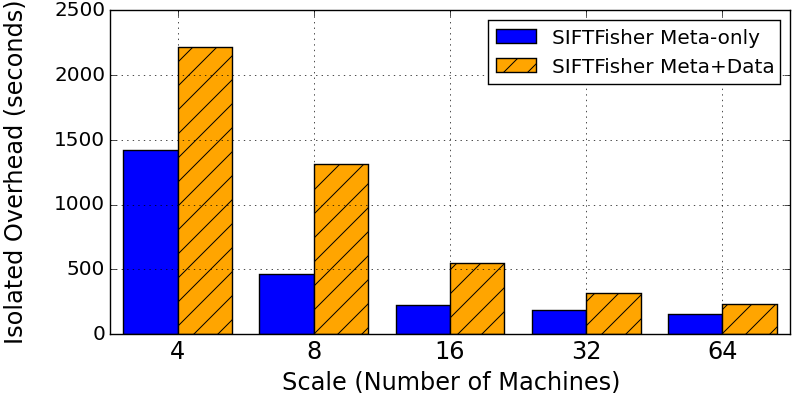
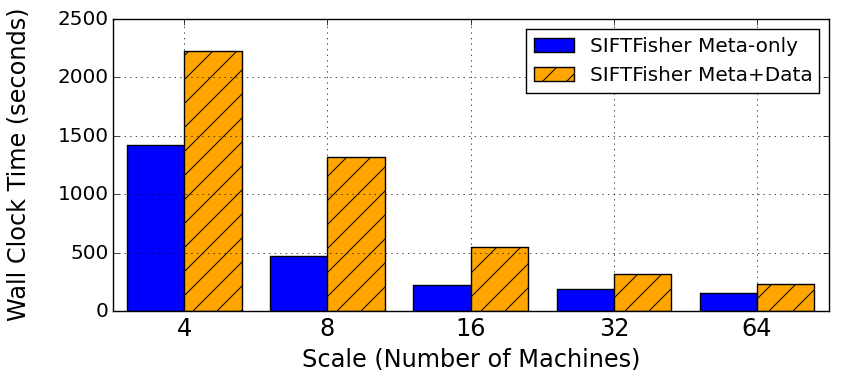
update figures

diff --git a/Lineage.tex b/Lineage.tex
@@ -878,8 +878,7 @@ The query of an input element (0,0) in the R-tree returns a tuple of the boundin
 The query returns the output elements expanded from Rect\_0 only if the input element is within circle\_0.
 
 The time complexity of building a R-tree is $log(N)$.
-Practically the time complexity of query a R-tree is $log(N)$ in our use cases, though
-the worst case complexity is $O(N)$.
+The worst case time complexity of query a R-tree is $O(N)$.
 And the space complexity for {\bf RTree} index is $log(N)$.
 
 \subsubsection{KMeans Index}
@@ -895,7 +894,7 @@ A worst case query needs to traverses all $k$ non-leaf nodes and all $\frac{N}{k
 $k+\frac{N}{k}$ has its minimum when $k=\sqrt{N}$. 
 
 The time complexity of building the {\bf KMeans} index is $O(N^{1.5})$.
-The average query time complexity is $O(logN)$.
+The worst case query time complexity is $O(\sqrt{N})$.
 The space complexity of {\bf KMeans} is $O(\sqrt{N})$.
 
 \subsubsection{Index Strategy Asymptotical Comparison}
@@ -908,11 +907,11 @@ the query time complexity, and the index space complexity.
     \begin{scriptsize}
     \begin{tabular}{ | p{1.75cm} | p{1.75cm} | p{1.75cm} | p{1.75cm} |}
     \hline
-    Strategy & Building & Query & Space \\ \hline \hline
+    Strategy & Building & Worst Query & Space \\ \hline \hline
     NoIndex & 0 & $O(N)$ & 0 \\ \hline
     Direct & $O(N^2)$ & $O(1)$ & $O(N^2)$ \\ \hline
-    RTree & $O(N)$ & $O(logN)$ & $O(logN)$ \\ \hline
-    KMeans & $O(N^{1.5})$ & $O(logN)$ & $O(\sqrt{N})$ \\ \hline
+    RTree & $O(N)$ & $O(\sqrt{N})$ & $O(logN)$ \\ \hline
+    KMeans & $O(N^{1.5})$ & $O(N)$ & $O(\sqrt{N})$ \\ \hline
     \end{tabular}
     \end{scriptsize}
     \label{tb:index-comparison}
@@ -946,21 +945,55 @@ A detailed performance study is present in \S\ref{sec:Perf-Index}.
 In this section, we evaluate a number of aspects of SystemX's performance.
 We demonstrate a set of built-in indexing strategy for geometry mapping, and profile the tradeoff
 between index building time, query performance, memory usage and storage consumption.
-The end-to-end performance and memory/disk usage for three real ML pipelines are presented.
-Then we show the profiling of SystemX's scalability with three real ML pipelines on varying cluster sizes.
-Last, we measure the performance of the three use cases presented in \S\ref{sec:Back-cases} with 
-fine-grained lineage and its according cost.
+Then we present the scalability of SystemX's lineage capturing with two real ML pipelines on varying cluster sizes.
+We also measure the performance of the three use cases presented in \S\ref{sec:Back-cases}.
 
 Unless otherwise specified, all experiments are run on Amazon EC2 using r3.8xlarge instances.
 Each machine has 16 physical cores, 244 GB memory, and two 320GB SSD. 
 SystemX is integrated with KeystoneML 0.3 which in turn runs over Spark 1.3.1, HDFS from the
 CDH4 distribution of Hadoop. 
 
+The two pipelines we are using are SIFTFisher and SourceExtractor. 
+The datasets VOC2007~\cite{pascal-voc-2007} and a subset of Sloan Digital Sky Survey~\cite{york00} (SDSS) Data Release 7, respectively.
+Table~\ref{tb:datasets} summarizes the size and number of files of the datasets.
+
+\begin{table}[t]
+\begin{center}
+    \caption{Data Size of SIFTFisher and SourceExtractor with the Meta-only and Meta+Data settings}
+    \begin{scriptsize}
+    \begin{tabular}{ | p{1.8cm} | p{1.8cm} | p{1.8cm} | }
+    \hline
+    Dataset & VOC & SDSS DR7 \\ \hline \hline
+    Size & 828~MB & 65~GB \\ \hline
+    File Count & 10,000 & 11,150 \\ \hline
+    \end{tabular}
+    \end{scriptsize}
+    \label{tb:datasets}
+\end{center}   
+\end{table}
+
 \subsection{Geometry Mapping Index}
 \label{sec:Perf-Index}
 With this experiment we seek to profile the characteristics of the indexing strategies for geometry lineage discussed in \S\ref{sec:GeometryIndex}.
 We use a workload with 5,000 pairs of input and output matrix, with each pair producing 60,000 geometry mappings that are uniformly distributed
-in 2D space. The total number of mappings has 300 million geometries. The experiment was executed on a 16 machine cluster.
+in 2D space. The total number of mappings has 300 million geometries. 
+This test workload is derived from the SIFTExtractor transformer in the SIFTFisher pipeline.
+The experiment was executed on a 16 machine cluster.
+
+Figure~\ref{fig:sift-query} presents the query performance with these indexing strategies.
+For each strategy, we run queries with {1, 100, 1000, 10000} batch size.
+NoIndex strategy perform worst among the four strategies, the query latency quickly grow over 10,000~ms with batch size of 100.
+The other three strategies show a similar scalability, while KMeans-1 runs 17.9\% and 25.1\% faster than RTree with batch size of 1000 and 10000, respectively.
+KMeans-5 runs  31.1\% and 35.2\% faster with batch size of 1000 and 10000, respectively.
+
+\begin{figure}[t]
+\begin{center}
+    \includegraphics[width=85mm]{pictures/SIFTQuery-Time}
+\caption {Query performance profile of the geometry mapping with four indexing strategies
+    \label{fig:sift-query}
+}
+\end{center}
+\end{figure}
 
 Figure~\ref{fig:sift-time} presents the end-to-end performance of this workload with a detailed runtime decomposition. For each data point, 
 we run it three times and present the average. 
@@ -974,26 +1007,29 @@ we run it three times and present the average.
 \end{center}
 \end{figure}
 
-Without lineage tracking, the workload takes 61.3~seconds to finish without lineage tracking, shown as the baseline.
-Tracking metadata mapping (geometry mapping) incurs a 89.8~seconds overhead in average. 
-Building the index for geometry mapping takes 33.9, 69.9, and 349.0~seconds for RTree, KMeans-1, and KMeans-5.
+Capturing 300 million geometry mappings takes 89.8~seconds overhead in average. 
+Building the index for these mappings takes 33.9, 69.9, and 349.0~seconds for RTree, KMeans-1, and KMeans-5.
 The Direct strategy crashes due to insufficient memory.
 
-Figure~\ref{fig:sift-query} presents the query performance with these indexing strategies.
-For each strategy, we run queries with {1, 100, 1000, 10000} batch size.
-NoIndex strategy perform worst among the four strategies, the query latency quickly grow over 10,000~ms with batch size of 100.
-The other three strategies show a similar scalability, while KMeans-1 runs 17.9\% and 25.1\% faster than RTree with batch size of 1000 and 10000, respectively.
-KMeans-5 runs  31.1\% and 35.2\% faster with batch size of 1000 and 10000, respectively.
+Table~\ref{tb:sift-index-resource} presents the additional memory usage, storage space for mappings and
+index separately.
 
-
-\begin{figure}[t]
+\begin{table}[t]
 \begin{center}
-    \includegraphics[width=85mm]{pictures/SIFTQuery-Time}
-\caption {Query performance profile of the geometry mapping with four indexing strategies
-    \label{fig:sift-query}
-}
-\end{center}
-\end{figure}
+    \caption{Summary of Additional Memory Usage, Mapping Storage Space, and Index Storage Space for the Four Indexing Strate}
+    \begin{scriptsize}
+    \begin{tabular}{ | c | c | c | c |}
+    \hline
+    Index & Additional  Mem & Mapping Space & Index Space \\ \hline \hline
+    NoIndex & 71.4\% & 30.8~GB & 0 \\ \hline
+    RTree & 85.7\% & 30.8~GB & 24.6~GB\\ \hline
+    KMeans-1 & 85.7\% & 30.8~GB & 3.5~BG\\ \hline
+    KMeans-5 & 114.3\% & 30.8~GB & 3.5~GB\\ \hline
+    \end{tabular}
+    \end{scriptsize}
+    \label{tb:sift-index-resource}
+\end{center}   
+\end{table}
 
 The storage consumption of the four indexing strategies is 30.8GB, 55.4GB, 34.3GB, and 34.3GB 
 for NoIndex, RTree, KMeans-1, KMeans-5, respectively. 
@@ -1009,92 +1045,75 @@ Since storage is not the major bottleneck given the machine capability, SystemX 
 as default, leaving the RTree strategies as users' options.
 
 
-
-%\subsection{End-to-end Pipeline Performance}
-%We use three ML pipelines to measure the end-to-end performance and its penalty with lineage capturing
-%along with resource consumption of memory and storage on a 16 machine cluster.
-%For each pipeline, we collect both the metadata mapping, the input dataset of the first transformer,  and the output dataset of all transformers.
-%Table~\ref{tb:apps-overhead} presents the measure numbers, for each data point in the table, it is an
-%average of three executions. 
-
-%The measurement shows a performance penalty range of 25.6\%-62.2\%, this performance penalty is comparable to that
-%of previous works of RAMP (16$\sim$76\%), Newt (20$\sim$50\%), and SubZero(20\%$\sim$150\%).
-%The memory usage overhead comparing to the baseline case is 200\% for MNIST pipeline, however it is using only
-%193~GB out of 3.9~TB memory space. 
-%For more memory-intensive pipelines of SIFTFisher (1.3~TB) and SourceExtractor (1.6~TB), the additional usage is 38.5\% and 43.7\%, respectively.
-
-%\begin{table}[t]
-%\begin{center}
-%    \caption{Overhead Profile of SystemX on the SIFTFisher, SourceExtractor, and MNIST Pipelines}
-%    \begin{scriptsize}
-%    \begin{tabular}{ | p{1.8cm} | p{1.8cm} | p{1.8cm} | p{1.5cm} | }
-%    \hline
-%    Pipeline & SIFTFisher & SourceExtractor & MNIST  \\ \hline \hline
-%    Baseline & 780.8s & 279.7s & 56.4s \\ \hline
-%    Perf Penalty & 38.4\% & 25.6\% & 62.2\%   \\ \hline
-%    Memory & 38.5\% & 43.7\% & 200\%\\ \hline
-%    Mapping Size & 109.9~GB & 204.4~MB & 78.9~MB \\ \hline
-%    In\&Out dataset Size & 615.7~GB & 506.9~GB & 11.8~GB\\ \hline
-%    \end{tabular}
-%    \end{scriptsize}
-%    \label{tb:apps-overhead}
-%\end{center}   
-%\end{table}
-
-\subsection{Scalability}
-We evaluate the wall clock time overhead introduced by the lineage capturing systems with 
-the SIFTFisher and SourceExtractor pipelines. 
-The goal is to evaluate if this overhead is scalable with larger cluster size in a strong scaling manner.
+\subsection{Lineage Capturing Scalability}
+We evaluate lineage capturing performance with the SIFTFisher and SourceExtractor pipelines. 
+The goal is to evaluate if lineage capturing is scalable with larger cluster size in a strong scaling manner.
 For each pipeline, we measure the wall clock time of lineage capturing with two settings.
-With the first setting, SystemX only captures the metadata mapping, since this is the minimal lineage information 
+With the first setting (meta-only), SystemX only captures the metadata mapping, since this is the minimal lineage information 
 to preserve the pipeline lineage integrity.
-With the second setting, SystemX captures both the metadata mapping and the output dataset of each transformer.
+With the second setting (meta+data), SystemX captures both the metadata mapping and the output dataset of each transformer.
 With the lineage information captured in this way, queries on the output dataset does not require any rerunning of data transformations.
-And this is considered the maximal lineage information of a pipeline. 
+And this is considered as the maximal lineage information of a pipeline. 
+Table~\ref{tb:apps-stats} presents the the dataset size collected with both settings for both pipelines.
 
-Figure~\ref{fig:VOC-overhead} shows the isolated wall clock time overhead for the meta-only and meta+data
+\begin{table}[t]
+\begin{center}
+    \caption{Data Size of SIFTFisher and SourceExtractor with the Meta-only and Meta+Data settings}
+    \begin{scriptsize}
+    \begin{tabular}{ | c | c | c| }
+    \hline
+    Pipeline & SIFTFisher & SourceExtractor \\ \hline \hline
+    Meta-only & 109.9~GB & 204.4~MB \\ \hline
+    Meta+Data & 615.7~GB & 506.9~GB \\ \hline
+    \end{tabular}
+    \end{scriptsize}
+    \label{tb:apps-stats}
+\end{center}   
+\end{table}
+
+Figure~\ref{fig:VOC-overhead} shows the isolated wall clock time of lineage capturing performance for the meta-only and meta+data
 settings. From small scale to large scale, the meta-only setting scales up to 16 machines then flattens. 
 On the other hand, the meta+data setting shows a better scalability since this is a relatively more
 data-intensive procedure compared to the meta-only setting. 
-By examining the pipeline scalability, we confirm that the the scalability of the meta-only setting is bounded
+By examining the pipeline measurements, we confirm that the the scalability of the meta-only setting is bounded
 by the pipeline performance.
+From 4 to 8 machines, the meta-only setting shows a super linear speedup, this is because the pipeline is memory-bounded on 4 machines
+and using 8 machines removes this bottleneck.
+
 \begin{figure}[t]
 \begin{center}
     \includegraphics[width=85mm]{pictures/Overhead-Time-VOC}
-\caption {Isolated Lineage Capturing Wall Clock Time Overhead of the SIFTFisher Pipeline
+\caption {Isolated Lineage Capturing Wall Clock Time of the SIFTFisher Pipeline
     \label{fig:VOC-overhead}
 }
 \end{center}
 \end{figure}
 
-Figure~\ref{fig:SE-overhead} shows the isolated wall clock time overhead for the meta-only and meta+data settings.
+Figure~\ref{fig:SE-overhead} shows the isolated wall clock time lineage capturing for the meta-only and meta+data settings.
 By profiling the SourceExtractor performance, we observe that this pipeline's runtime only improves by 5.5\% from 8 machines
-to 16 machines. Then the performance starts to slow down with more machines.
+to 16 machines. Then the performance starts to slow down with more machines due to the small input file size and short task runtime.
 Given the poor scalability of the SourceExtractor pipeline, the meta-only setting performance is bounded by the pipeline performance.
 While the Meta+Data setting scales better due to its nature of data intensiveness.
 \begin{figure}[t]
 \begin{center}
     \includegraphics[width=85mm]{pictures/Overhead-Time-SE}
 \caption {Isolated Lineage Capturing Wall Clock Time Overhead of the SourceExtractor Pipeline
-    \label{fig:VOC-overhead}
+    \label{fig:SE-overhead}
 }
 \end{center}
 \end{figure}
 
-One pattern we can conclude from the scalability measurements is that SystemX scales no worse than the ML pipelines.
-This is due to the fact that SystemX captures and stores the lineage information via the RDD abstraction, which perform
-in a scalable manner. 
+One pattern we can conclude from the scalability measurements is that SystemX's lineage capturing performance scales no worse than the ML pipelines.
+This is due to the fact that SystemX captures and stores the lineage in a distributed manner with the RDD data structure. 
 The metadata mapping capturing is more likely to be impacted by the ML pipeline comparing to the case where both metadata
 mapping and datasets are captured, since it is a relatively less data-intensive operations.
-Combining pipeline stats shown in Table~\ref{tb:apps-overhead}, SystemX scales  well when collecting larger datasets.
-In the SIFTFisher case, capturing both metadata mapping and datasets shows scalability that is higher than ideal.
-This is because the SIFTFisher performance is memory-bounded on 8 machines, once the memory bound is relieved, the actual performance
-exceeds the expectation.
+
 
 \subsection{Query Performance}
 In some cases, a user is only interested in one element of a single transformer.
 The query is then in the form of random query with a single key.
-While inn the chained lineage case, an individual element query on a transformer can return a large number of coordinates, e.g., on the order of 1M. 
+While with the chained lineage (a sequence of transformers), an individual element query 
+on a transformer can return a large number of coordinates, e.g., on the order of 1M. 
 The subsequent query then uses these 1M coordinates as keys.
 And this large number of key size can impact the query performance substantially.  
 This performance measurement seeks to profile the boundary of query scalability in SystemX. 
@@ -1117,7 +1136,7 @@ Table~\ref{tb:typequery-stats} shows the metadata settings of the input and outp
 \begin{center}
     \caption{Data Structure Settings}
     \begin{scriptsize}
-    \begin{tabular}{ | p{1.5cm} | p{3cm} | p{3cm} |}
+    \begin{tabular}{ | c | c | c |}
     \hline
     Type & Input Structure & Output Structure \\ \hline \hline
     All & Vector(40960) & Vector(40960) \\ \hline

diff --git a/pictures/SIFTQuery-Time.py b/pictures/SIFTQuery-Time.py
@@ -45,8 +45,8 @@ ax2.set_yticklabels((0, 100, 200, 300, 400, 500), size='large')
 
 #args = dict(horizontalalignment='left', verticalalignment='bottom')
 # add some text for labels, title and axes ticks
-ax2.set_xlabel('Region Lineage Index Strategy', size='x-large')
-ax2.set_ylabel('Query Turnaround (ms)', size='x-large', labelpad=20)
+ax2.set_xlabel('Geometry Mapping Index Strategy', size='x-large')
+ax2.set_ylabel('Query Latency (ms)', size='x-large', labelpad=20)
 ax2.yaxis.set_label_coords(-0.1, 1.0)
 ax.set_xticks(ind+0.45)
 ax2.set_xticklabels( ('NoIndex', 'RTree', 'KMeans-1', 'KMeans-5'), size='x-large') 

diff --git a/pictures/SIFTIndex-Time.py b/pictures/SIFTIndex-Time.py
@@ -24,8 +24,8 @@ rects4 = ax.bar(ind, Index, width, color='red', bottom=np.add(Metadata,Baseline)
 ax.grid(True)
 
 # add some text for labels, title and axes ticks
-ax.set_xlabel('Region Lineage Index Strategy', size='x-large')
-ax.set_ylabel('Time-to-solution (seconds)', size='x-large')
+ax.set_xlabel('Geometry Mapping Index Strategy', size='x-large')
+ax.set_ylabel('Wall Clock Time (seconds)', size='x-large')
 ax.set_xticks(ind+0.375)
 ax.set_xticklabels( ('NoLineage', 'NoIndex', 'RTree', 'KMeans-1', 'KMeans-5'), size='x-large') 
 plt.yticks(size='large')

diff --git a/pictures/TypeQuery-Time.py b/pictures/TypeQuery-Time.py
@@ -37,7 +37,7 @@ ax.grid(True)
 #args = dict(horizontalalignment='left', verticalalignment='bottom')
 # add some text for labels, title and axes ticks
 ax.set_xlabel('Lineage Type', size='x-large')
-ax.set_ylabel('Query Turnaround (ms)', size='x-large', labelpad=20)
+ax.set_ylabel('Query Latency (ms)', size='x-large', labelpad=20)
 ax.set_yscale('log')
 ax.set_xticks(ind+0.45)
 ax.set_xticklabels( ('All', 'Identity', 'LinCom', 'Expansion', 'Collapse', 'Join', 'Geometry'), size='x-large') 

diff --git a/pictures/Overhead-Time-VOC.py b/pictures/Overhead-Time-VOC.py
@@ -24,7 +24,7 @@ ax.grid(True)
 
 
 ax.set_xlabel('Scale (Number of Machines)', size='x-large')
-ax.set_ylabel('Isolated Overhead (seconds)', size='x-large', labelpad=20)
+ax.set_ylabel('Wall Clock Time (seconds)', size='x-large', labelpad=20)
 ax.set_xticks(ind+0.4)
 ax.set_xticklabels( ('4', '8', '16', '32', '64'), size='x-large') 
 ax.legend( (rects1[0], rects2[0]), ('SIFTFisher Meta-only', 'SIFTFisher Meta+Data'), loc='best')

diff --git a/pictures/Overhead-Time-SE.py b/pictures/Overhead-Time-SE.py
@@ -23,7 +23,7 @@ ax.grid(True)
 
 
 ax.set_xlabel('Scale (Number of Machines)', size='x-large')
-ax.set_ylabel('Isolated Overhead (seconds)', size='x-large', labelpad=20)
+ax.set_ylabel('Wall Clock Time (seconds)', size='x-large', labelpad=20)
 ax.set_xticks(ind+0.4)
 ax.set_xticklabels( ('8', '16', '32', '64'), size='x-large') 
 ax.legend( (rects1[0], rects2[0]), ('SE Meta-only', 'SE Meta+Data'), loc='best', ncol=2)
